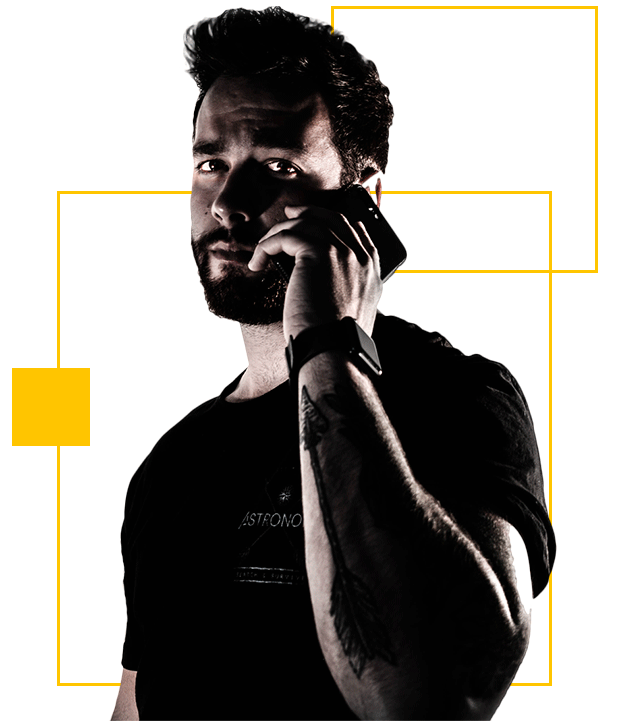
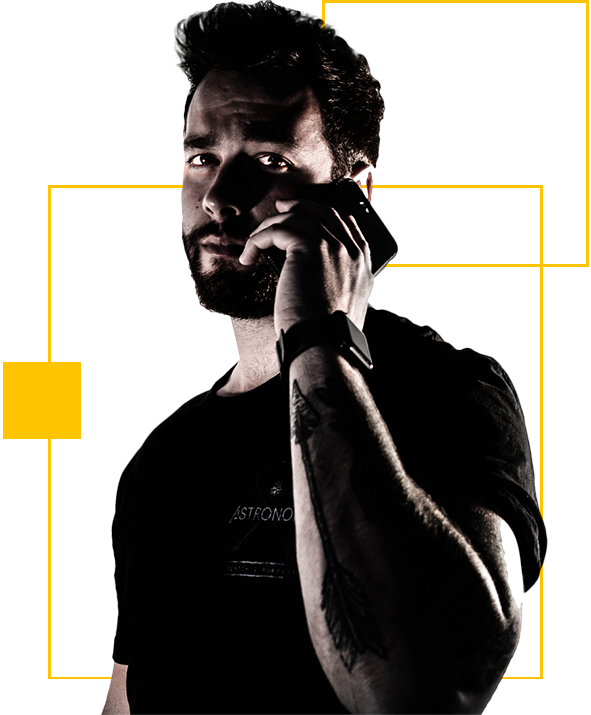
feat(COMPANY):Estilização da pagina empresa

diff --git a/src/empresa.html b/src/empresa.html
@@ -49,7 +49,7 @@
             <div class="hero">
                 <img src="./images/empresa.jpg" alt="" class="hero__background"/>
                 <div class="container hero__container">
-                    <div class="hero__copy">
+                    <div class="container hero__copy">
                         <h2>.empresa</h2>
                         <p>Lorem ipsum dolor sit amet consectetur adipisicing elit. Sapiente repellat ex quibusdam beatae! Pariatur veniam atque perferendis ullam vero reprehenderit ipsam libero autem? Quod eum sapiente explicabo voluptatem. Voluptatum, dolor?</p>
                     </div>
@@ -57,7 +57,30 @@
             </div>
         </header>   
         <main>
-        
+            <section class="company__contents">
+                <div class="container company__contents-copy">
+                    <div class="company__text">
+                        <h3>Lorem ipsum dolor sit amet, consectetur adipiscing elit.</h3>
+                        <p class="company__p1">Lorem ipsum dolor sit amet, consectetuer adipiscing elit diam, sed diam nonummy nibh euismod tincidunt ut laoreet dolore magna aliquam erat volutpat</p>
+                        <p>Maecenas eros erat, tristique nec volutpat quis, lacinia lacinia diam. Pellentesque blandit velit at ante aliquet facilisis. Nam placerat egestas lectus eget consectetur. Proin sodales lobortis turpis et elementum. Donec commodo venenatis est a sodales. Mauris sed nisl consequat lectus mollis venenatis. In hac habitasse platea dictumst. Sed iaculis luctus porta. Donec feugiat sollicitudin justo, et scelerisque tellus sollicitudin a. Integer id ligula ut turpis molestie blandit..</p>  
+                    </div>
+                    <div class="company__image">
+                        <img src="./images/man.png" alt="" class="image__contents">
+                    </div>
+                </div>
+            </section>
+            <section class="company__clients">
+                <div class="container company__clients-copy">
+                    <h3>Quem confia no nosso trabalho</h3>
+                    <img src="./images/logos.png" alt="Clientes" class="image__clients">
+                </div>
+            </section>
+            <section class="company__video">
+                <div class="company__video-copy">
+                    <iframe width="560" height="315" src="https://www.youtube-nocookie.com/embed/3Y3jTbhnhX0" title="YouTube video player" frameborder="0" allow="accelerometer; autoplay; clipboard-write; encrypted-media; gyroscope; picture-in-picture" allowfullscreen></iframe>                   
+                </div>
+
+            </section>
         </main>
         <footer class="footer">
             <div class="container footer__container">

diff --git a/src/css/_empresa.css b/src/css/_empresa.css
@@ -1,0 +1,62 @@
+.company__contents {
+    height: 47.5rem;
+}
+
+.company__contents-copy {
+    padding-left: 4rem;
+    display: grid;
+    grid-template-columns: 2fr 2fr;
+}
+
+.company__text {
+    padding-right: 7.78rem;
+}
+
+.company__contents-copy h3 {
+    margin: 0;
+    padding-top: 6.875rem;
+    padding-bottom: 3.375rem;
+    font-weight: 700;
+    font-size: 1.5625rem;
+}
+
+.company__contents-copy p {
+    margin: 0;
+    font-family: "Roboto";
+    font-weight: 400; 
+    font-size: 1.2rem;   
+}
+
+.company__p1 {
+    padding-bottom: 2.625rem;
+}
+
+.image__contents {
+    position: absolute;
+    margin-top: 2.8125rem;
+    max-width: 37rem;
+}
+
+.company__clients{
+    margin: 0;
+    height: 35.875rem;
+    background-color: var(--color-primery);
+}
+
+.company__clients-copy {
+    display: flex;
+    display: block; 
+}
+
+.company__clients-copy h3 {
+    margin: 0;
+    padding-top: 4.25rem;
+    padding-bottom: 3.5rem;
+    text-align: center;
+    font-size: 1.5625rem;
+}
+
+.image__clients {
+    padding-left: 1.3125rem;
+}
+

diff --git a/src/css/_hero.css b/src/css/_hero.css
@@ -24,6 +24,7 @@
 
 .hero__copy h2{
     margin: 0;
+    margin-left: -6rem;
     margin-bottom: 3rem;
     font-size: 7.5rem;
     line-height: 7.5rem;
@@ -33,6 +34,12 @@
 
 .hero__copy p {
     margin: 0;
+    margin-left: -6rem;
+    float: left;     
+    width: 70%;  
+    display: flex;
+    justify-content: flex-start;
+
     font-size: 0.9375rem;
     line-height: 1.875rem;
     color: var(--color-copy--alt);

diff --git a/src/style.css b/src/style.css
@@ -14,3 +14,4 @@
 
 @import "./css/_home.css";
 @import "./css/_contacs.css";
+@import "./css/_empresa.css";
